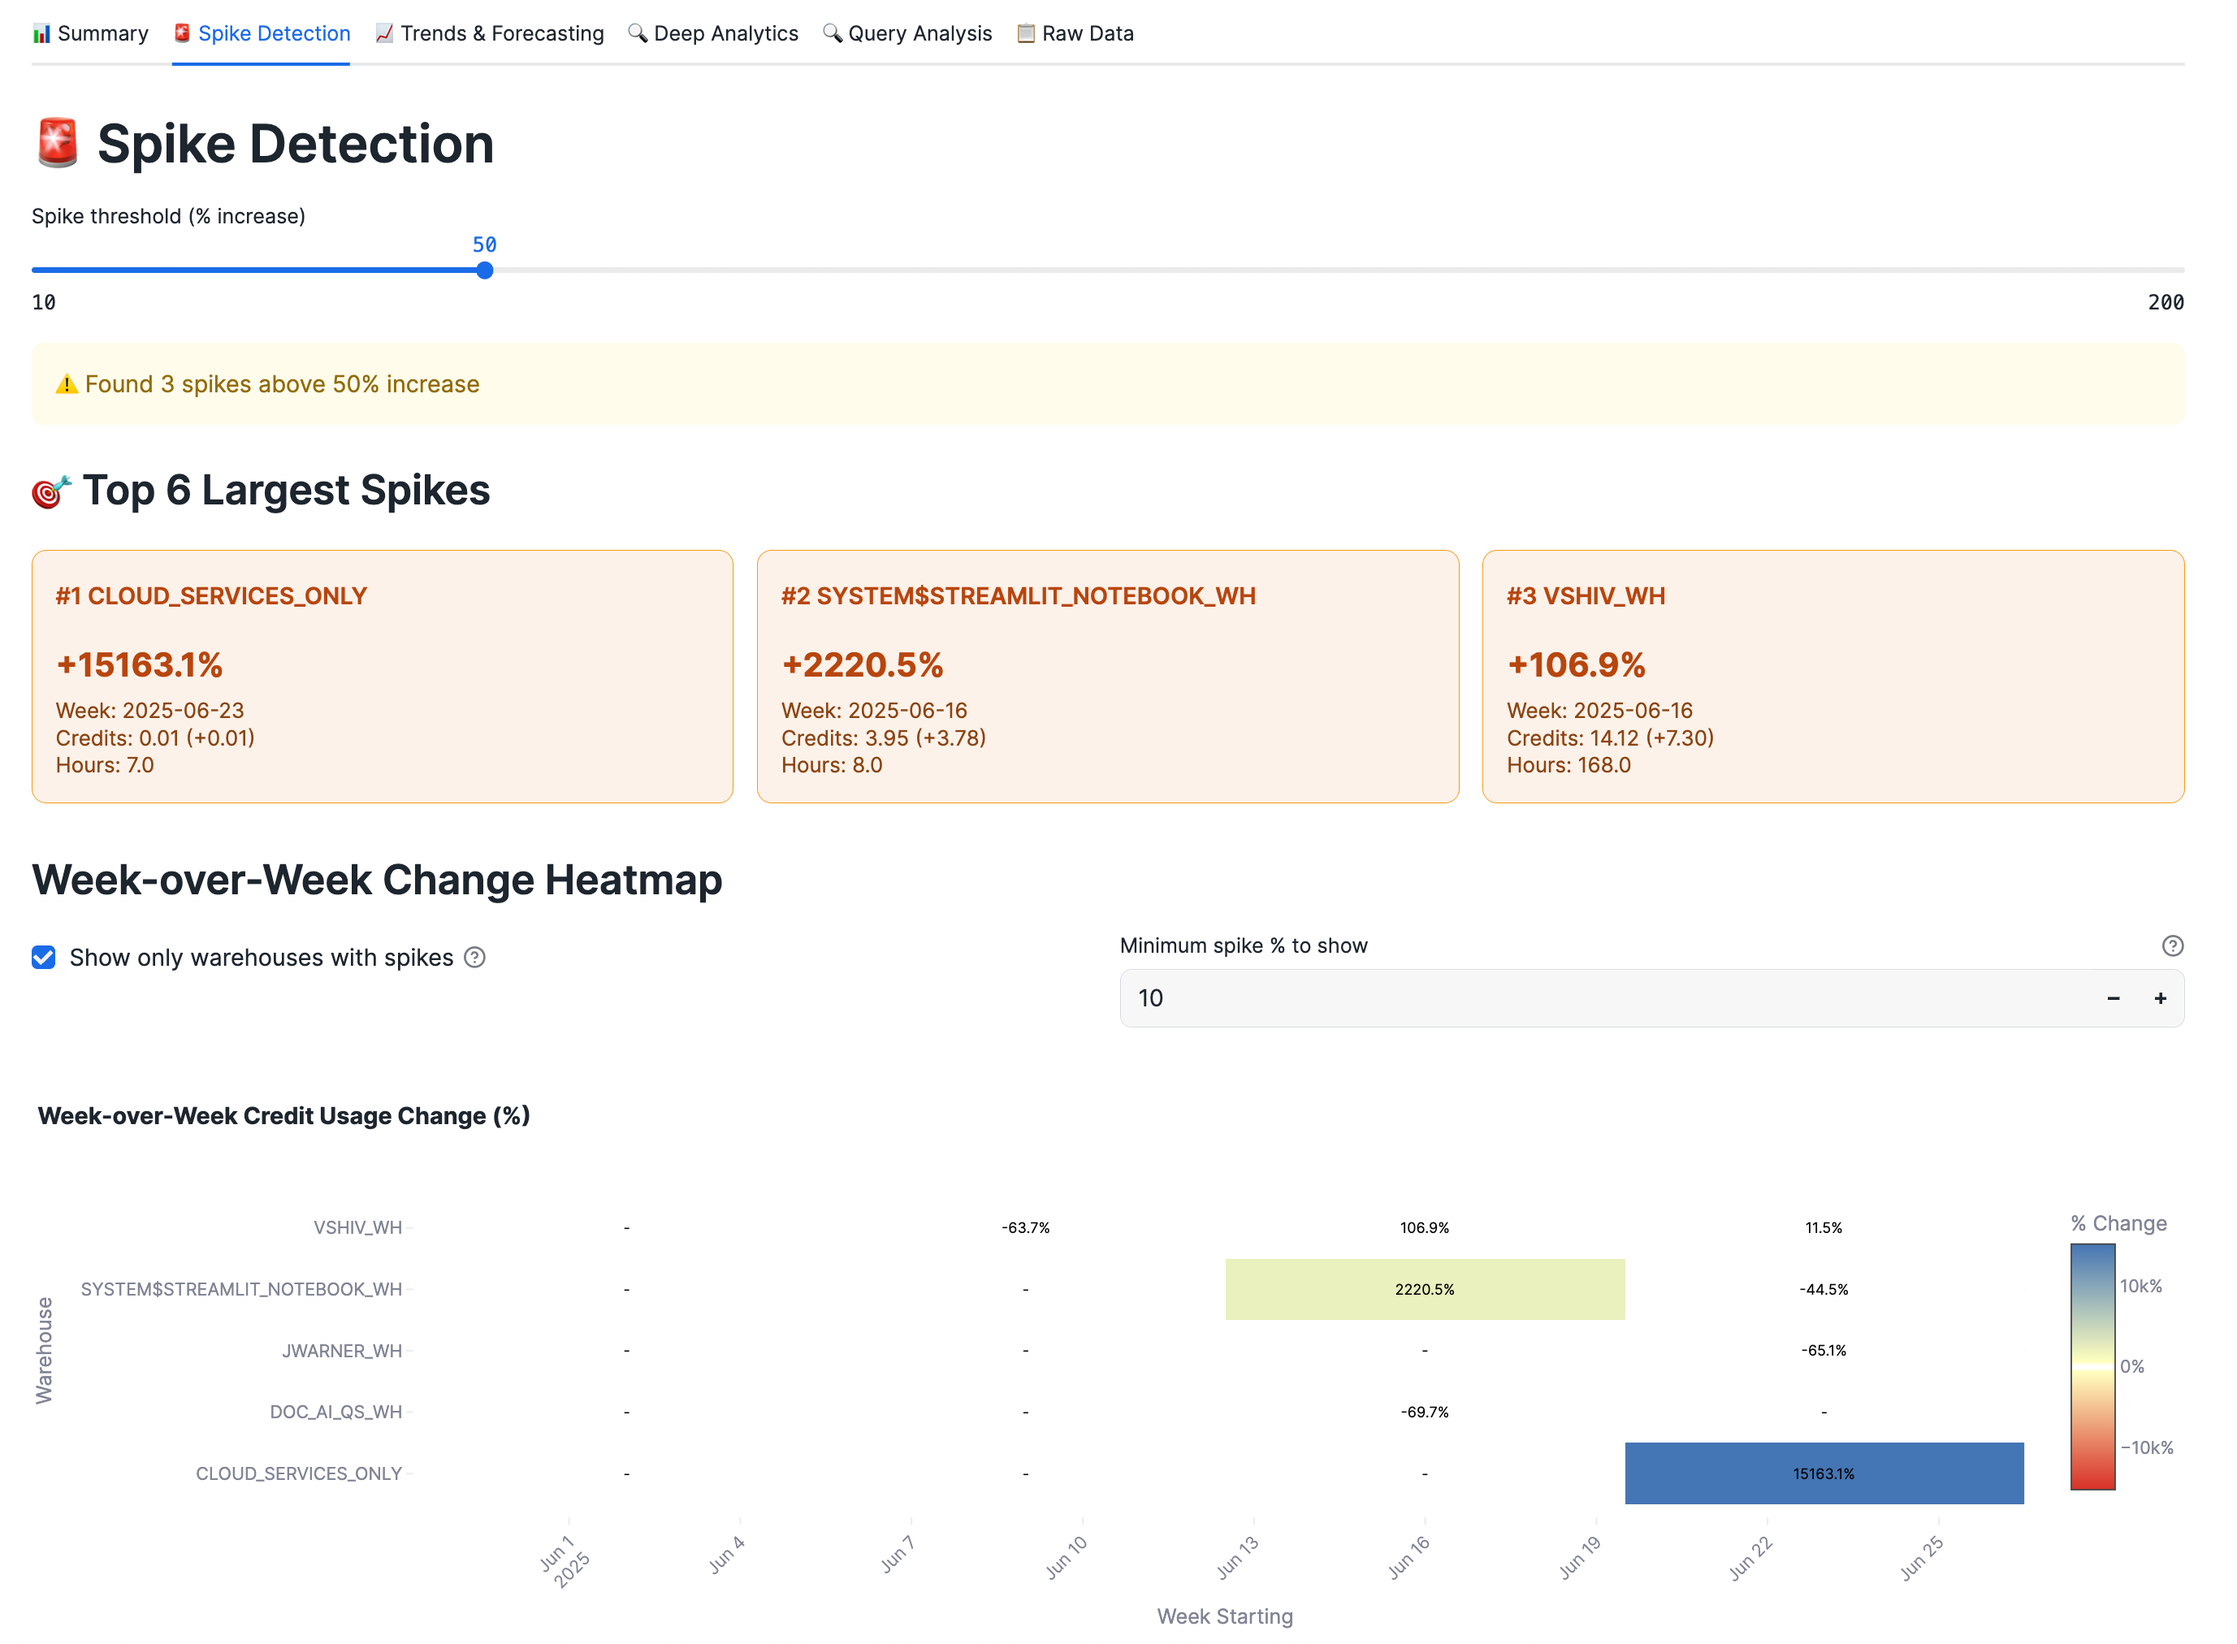
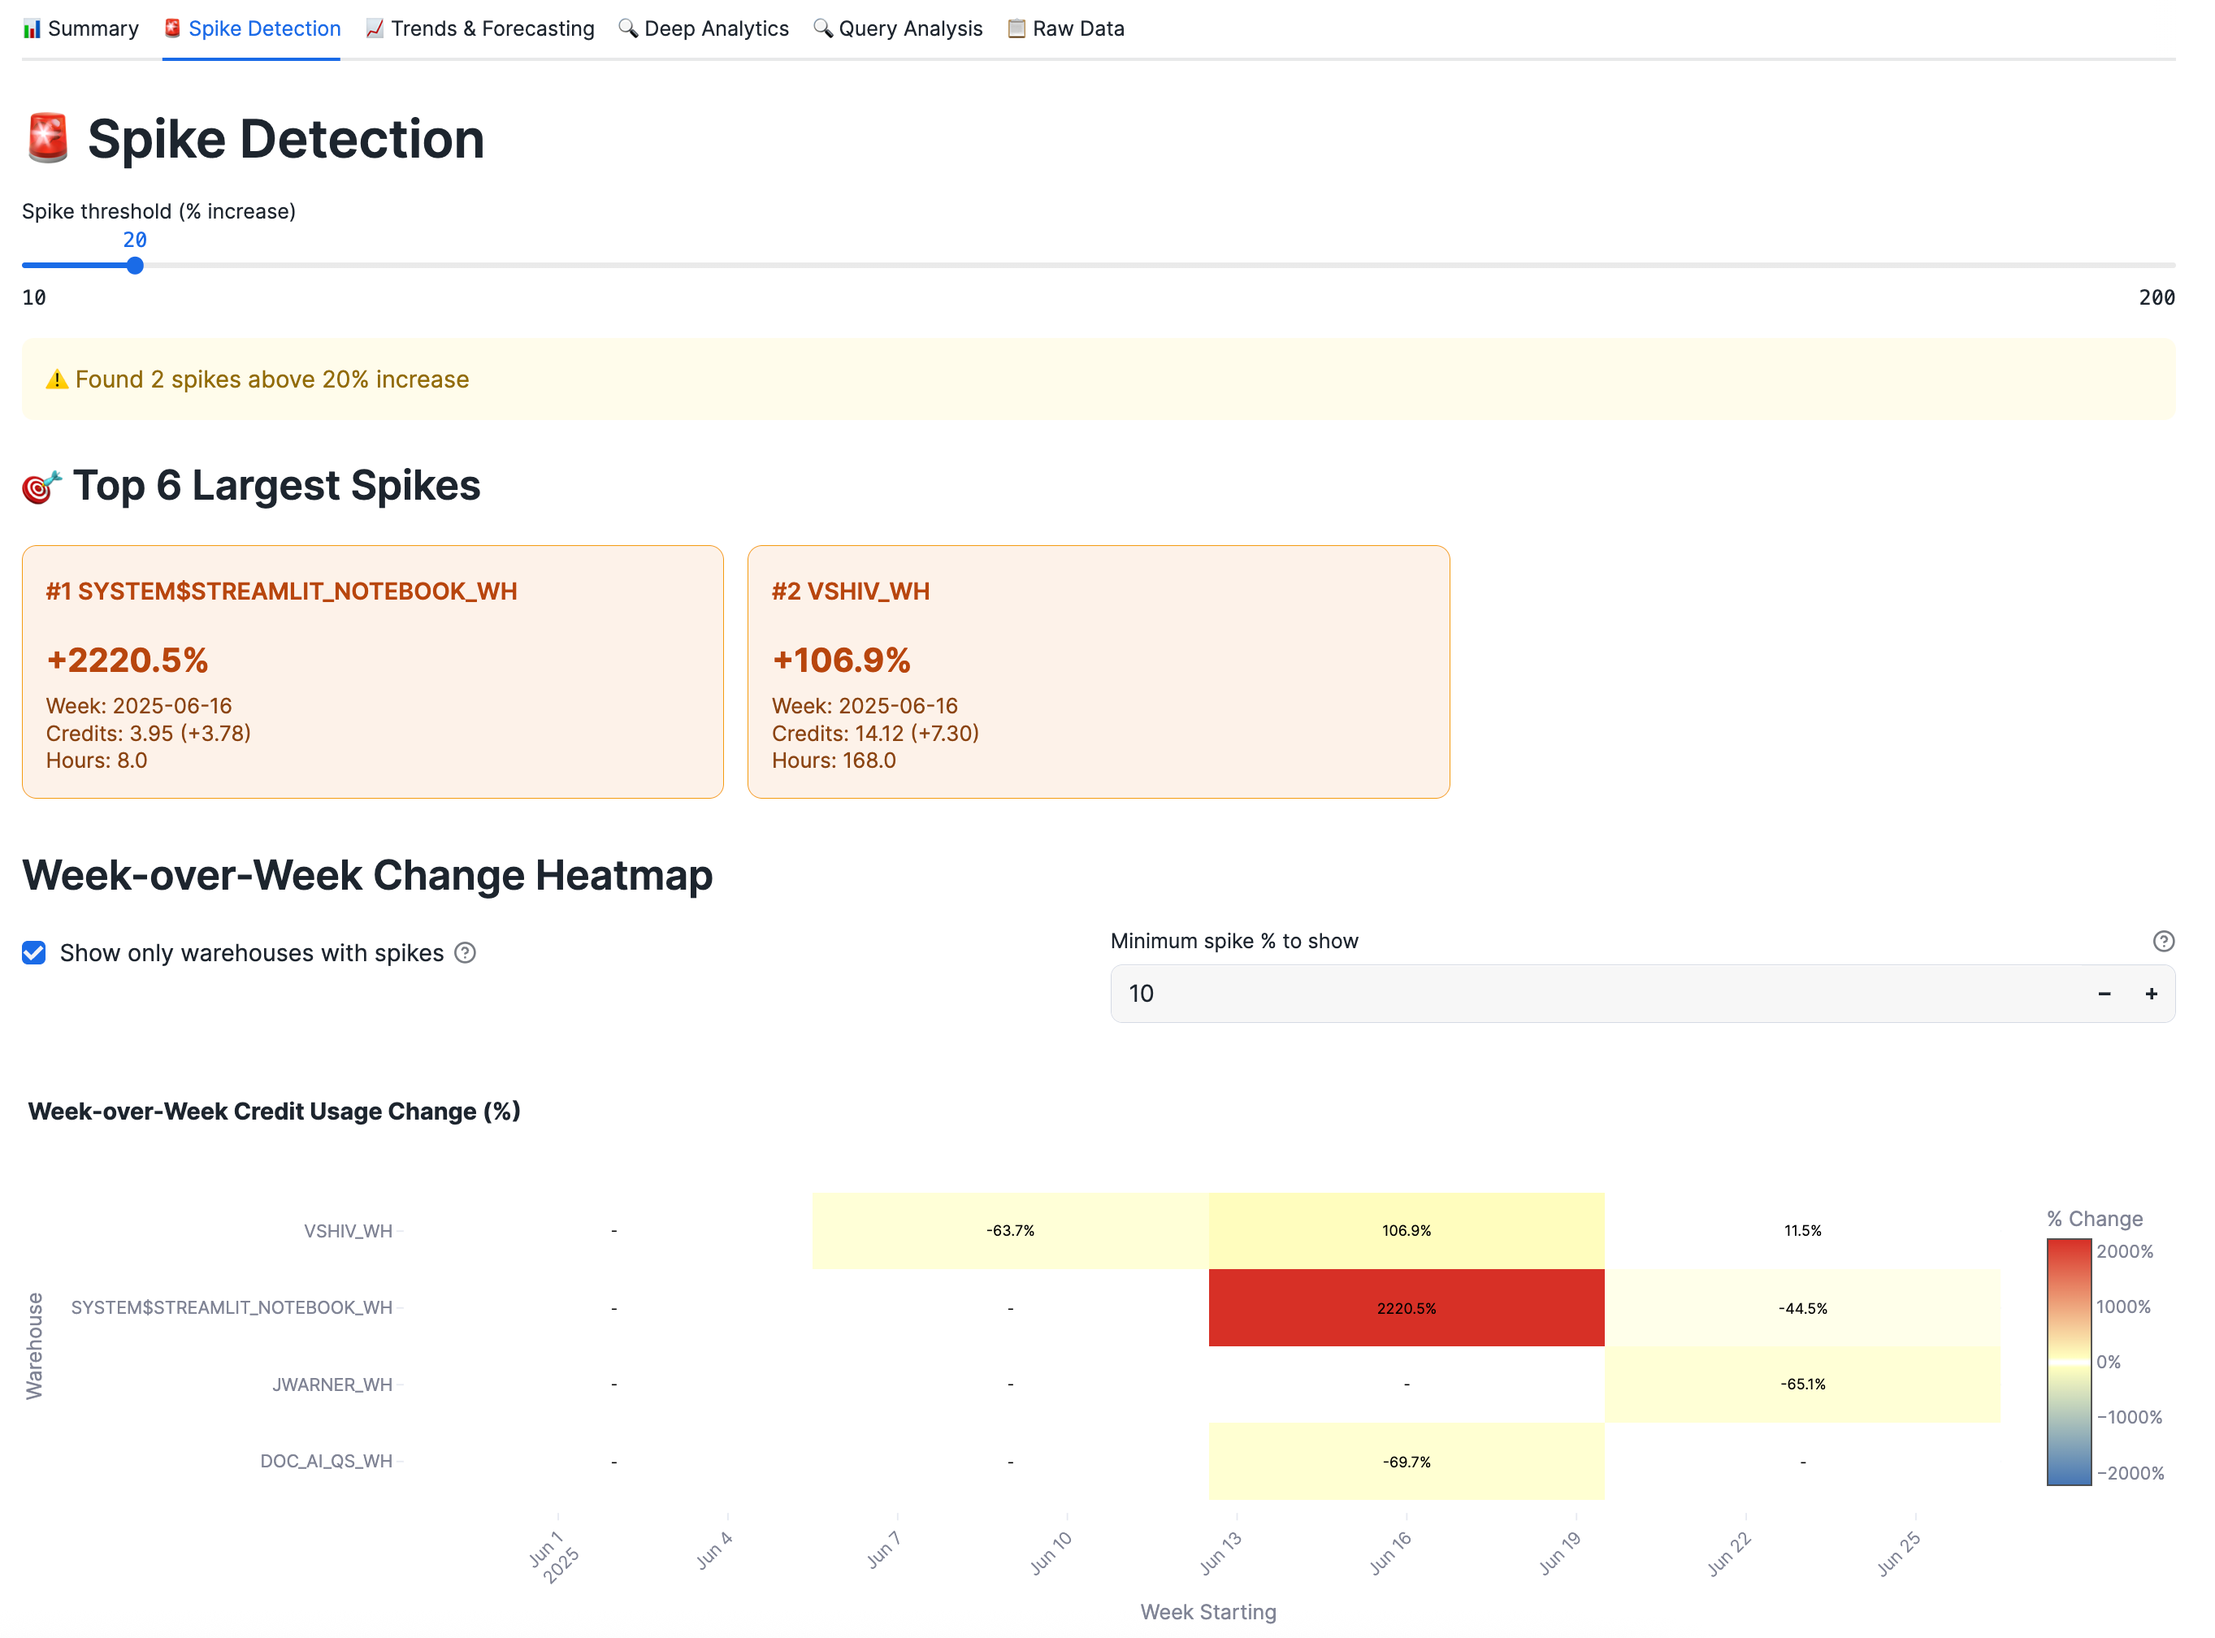
updated to include or exclude cloud services

diff --git a/streamlit_with_query_analysis.py b/streamlit_with_query_analysis.py
@@ -225,6 +225,10 @@ with st.sidebar:
     # Date range selector
     weeks_back = st.slider("Weeks of history", min_value=2, max_value=12, value=4)
     
+    # Cloud services inclusion
+    include_cloud_services = st.checkbox("☁ Include Cloud Services", value=True, 
+                                       help="Include CLOUD_SERVICES_ONLY warehouse data in all metrics and charts")
+    
     # Forecasting options
     if PROPHET_AVAILABLE:
         st.subheader("🔮 Forecasting")
@@ -548,6 +552,19 @@ if df_queries is None:
 else:
     df_queries = df_queries.loc[:, ~df_queries.columns.duplicated()]
 
+# Apply cloud services filtering based on user preference
+if not include_cloud_services:
+    # Filter out CLOUD_SERVICES_ONLY from warehouse data
+    if df is not None and not df.empty and 'warehouse_name' in df.columns:
+        df = df[df['warehouse_name'] != 'CLOUD_SERVICES_ONLY'].copy()
+    
+    if df_current is not None and not df_current.empty and 'warehouse_name' in df_current.columns:
+        df_current = df_current[df_current['warehouse_name'] != 'CLOUD_SERVICES_ONLY'].copy()
+    
+    # Filter out CLOUD_SERVICES_ONLY from query data
+    if df_queries is not None and not df_queries.empty and 'warehouse_name' in df_queries.columns:
+        df_queries = df_queries[df_queries['warehouse_name'] != 'CLOUD_SERVICES_ONLY'].copy()
+
 # Additional check for empty dataframes
 if df is None or df.empty or df_current is None:
     st.warning("No warehouse usage data found for the selected time period.")
@@ -559,6 +576,8 @@ if df is None or df.empty or df_current is None:
         with tab:
             st.info(f"No data available for {message}.")
     st.stop()
+
+
 
 # Enhanced tabs
 tab1, tab2, tab3, tab4, tab5, tab6 = st.tabs(["📊 Summary", "🚨 Spike Detection", "📈 Trends & Forecasting", "🔍 Deep Analytics", "🔍 Query Analysis", "📋 Raw Data"])
@@ -818,12 +837,12 @@ with tab2:
                 
                 # Create custom colorscale with white for zero values
                 colorscale = [
-                    [0.0, '#d73027'],    # Red for negative
+                    [0.0, '#4575b4'],    # Blue for negative (decreases)
                     [0.48, '#ffffbf'],   # Light yellow
                     [0.495, '#ffffff'],  # White for zero
                     [0.505, '#ffffff'],  # White for zero
                     [0.52, '#ffffbf'],   # Light yellow
-                    [1.0, '#4575b4']     # Blue for positive
+                    [1.0, '#d73027']     # Red for positive (spikes)
                 ]
                 
                 # Determine range for color scale
